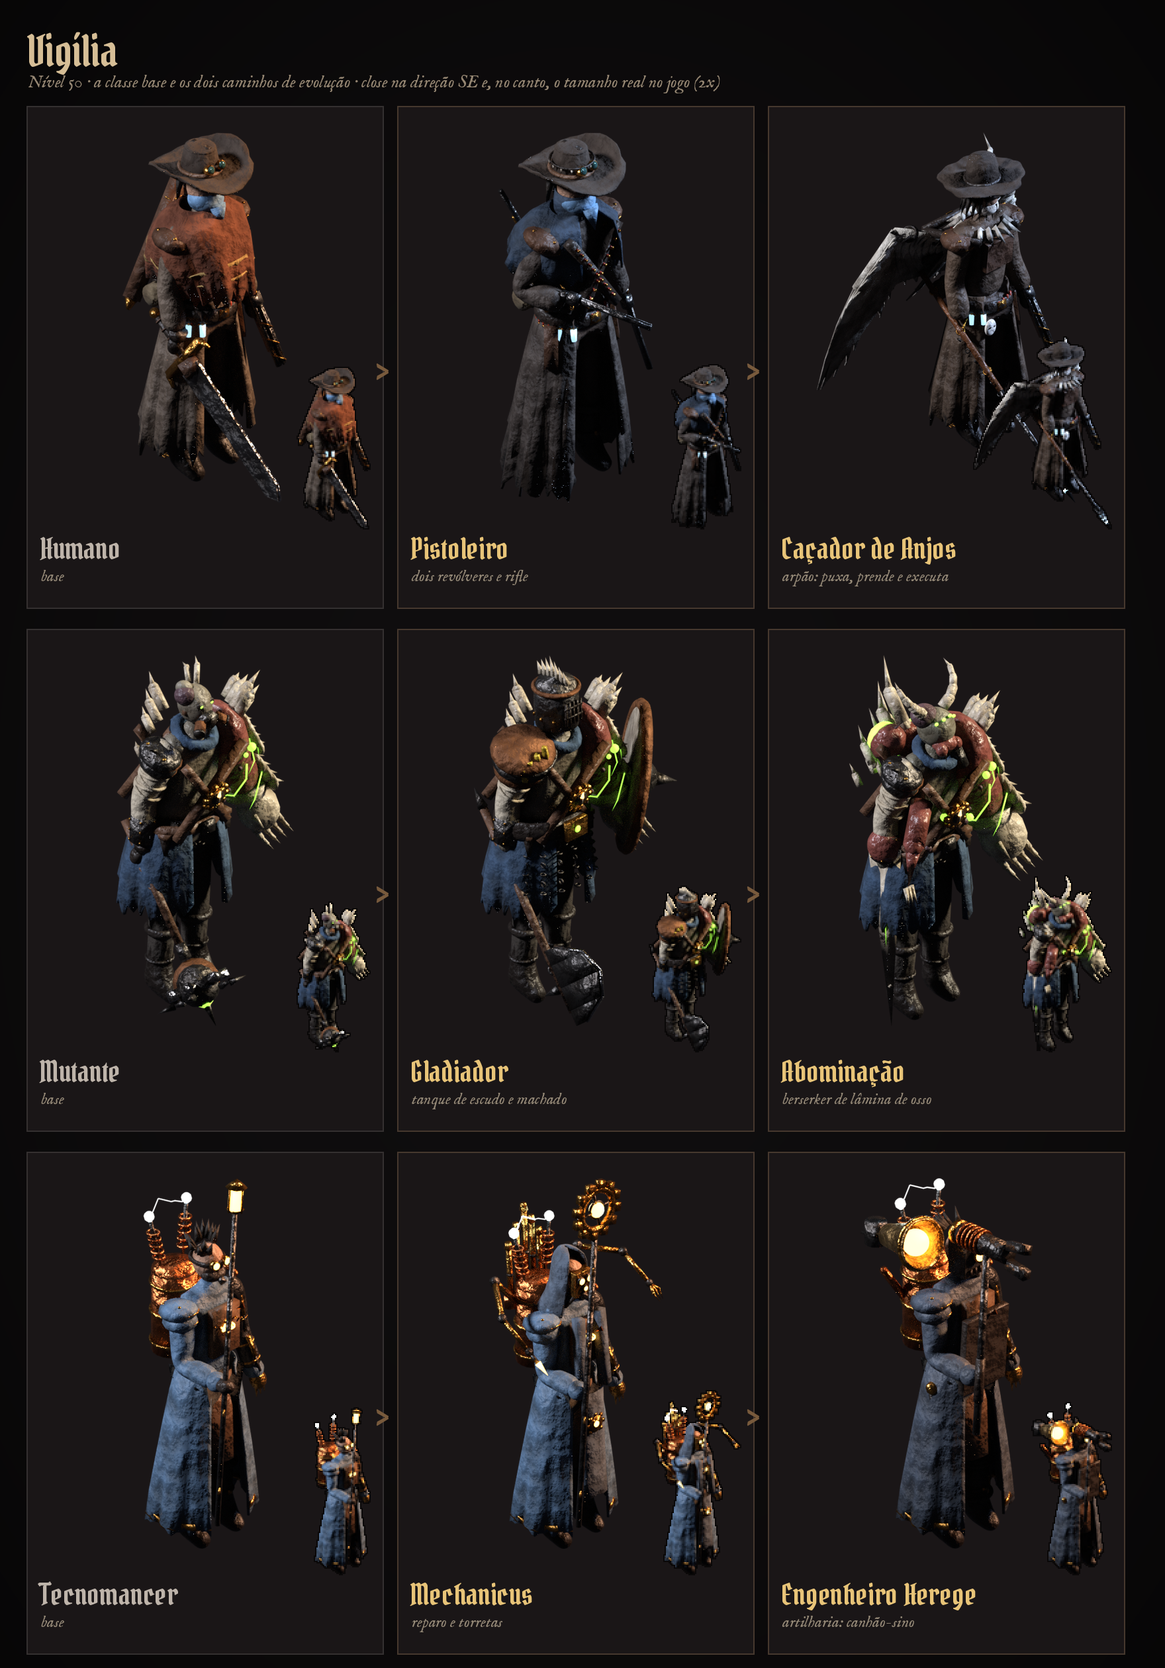
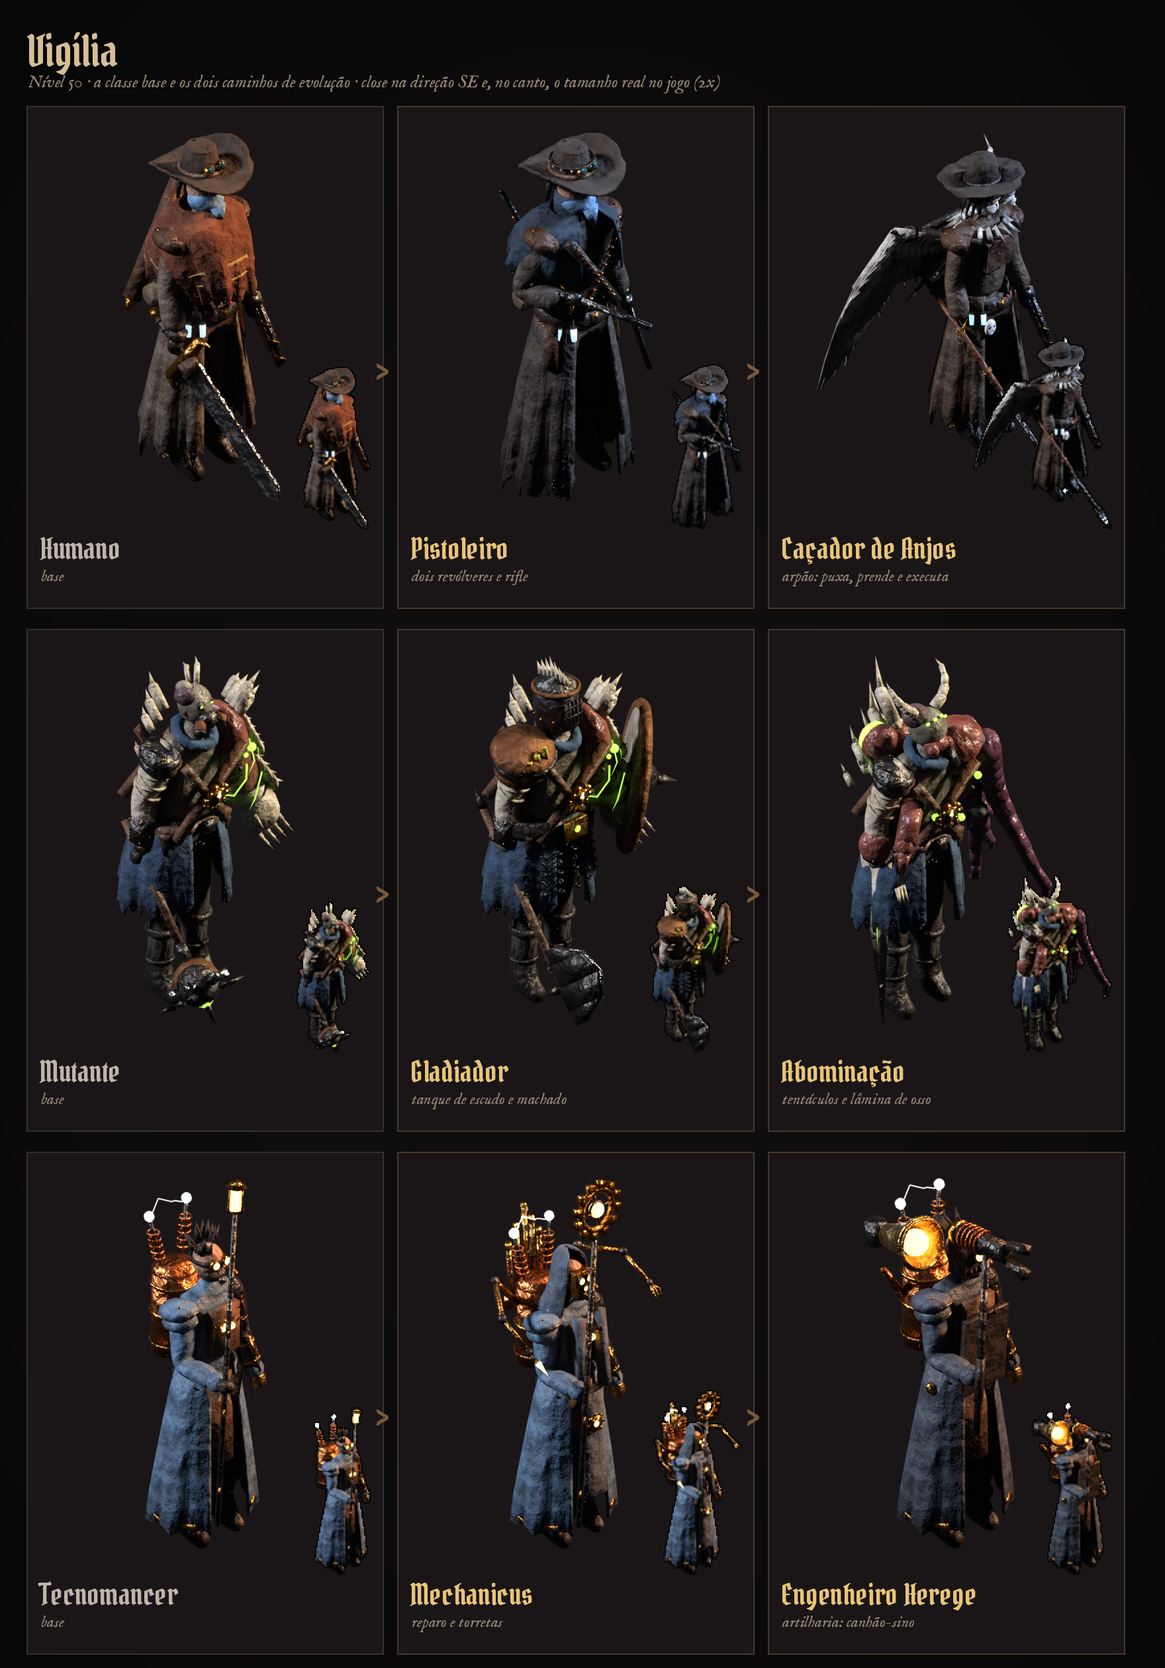
Evoluções: Ceifador de sombra, Abominação com tentáculos, Profeta com halo da podridão e asas de mariposa
Claude-Session: https://claude.ai/code/session_01Sknk5Bb29nZy4kpKu7zTkE

Changed region(s): [[0.7188, 0.4024, 0.9688, 0.619]]

diff --git a/tools/sprite-pipeline/personagens/evolucoes.py b/tools/sprite-pipeline/personagens/evolucoes.py
@@ -344,83 +344,113 @@ def lorde_das_trevas():
     info.update({"rim": (1, .3, .12), "base": "demonio"}); return arm, info
 
 # ====================================================================== DEMÔNIO → CEIFADOR
+def shadow_mat(name, rgb=(.006,.005,.009), alpha=.95, scale=5.0, cut=.42):
+    """Sombra etérea: quase preta, com bordas que se desfazem em fumaça (alfa por ruído)."""
+    if name in bpy.data.materials: return bpy.data.materials[name]
+    m = bpy.data.materials.new(name); m.use_nodes = True; nt = m.node_tree; b = nt.nodes["Principled BSDF"]
+    b.inputs["Base Color"].default_value = (*rgb, 1); b.inputs["Roughness"].default_value = 1.0
+    tc = nt.nodes.new("ShaderNodeTexCoord"); nz = nt.nodes.new("ShaderNodeTexNoise")
+    nz.inputs["Scale"].default_value = scale; nz.inputs["Detail"].default_value = 10; nz.inputs["Roughness"].default_value = .65
+    nt.links.new(tc.outputs["Object"], nz.inputs["Vector"])
+    rp = nt.nodes.new("ShaderNodeValToRGB")
+    rp.color_ramp.elements[0].position = cut; rp.color_ramp.elements[0].color = (0, 0, 0, 1)
+    rp.color_ramp.elements[1].position = cut + .14; rp.color_ramp.elements[1].color = (alpha, alpha, alpha, 1)
+    nt.links.new(nz.outputs["Fac"], rp.inputs[0]); nt.links.new(rp.outputs[0], b.inputs["Alpha"])
+    m.blend_method = 'HASHED' if hasattr(m, "blend_method") else None
+    return m
+
+def smoke_strip(name, m, pts, w0, w1, normal, seed=0, wave=.03):
+    """Tira de fumaça/sombra afinando ao longo de uma curva, com ondulação."""
+    rnd = random.Random(seed); bm = bmesh.new(); prev = None; n = len(pts)
+    for i, p in enumerate(pts):
+        t = i/(n-1); d = (pts[min(i+1, n-1)] - pts[max(i-1, 0)]).normalized(); side = d.cross(normal).normalized()
+        w = w0 + (w1 - w0)*t; c = p + side*wave*math.sin(t*7 + seed)
+        pair = (bm.verts.new(c + side*w*rnd.uniform(.8, 1.1)), bm.verts.new(c - side*w*rnd.uniform(.8, 1.1)))
+        if prev: bm.faces.new((prev[0], prev[1], pair[1], pair[0]))
+        prev = pair
+    o = obj_from_bm(name, bm, m); o.modifiers.new("s", 'SOLIDIFY').thickness = .004; _apply_mods(o); return o
+
 def ceifador():
-    """O que colhe a alma antes do Juízo: capuz e manto em farrapos, máscara de crânio, asas de ossos-lâmina
-    sem membrana e uma foice longa de ferro com o fio em brasa. Assassino: some, aparece atrás e corta."""
+    """O que colhe a alma antes do Juízo, feito de sombra: mortalha esfarrapada que se desfaz em fumaça na barra,
+    capuz fundo sem rosto (só dois olhos frios no escuro), asas etéreas de sombra em tiras e uma foice de ferro negro
+    com o fio em luz morta. Assassino: some na própria sombra, aparece atrás e corta."""
+    mat("brasa", (.55,.5,1), emit=(.5,.45,1), strength=7)          # o brilho da classe vira luz morta, fria
+    mat("carne_demoniaca", (.03,.025,.035), 0, .6, dirt=.6, grime=.5)
     arm, info = classes2.demonio()
-    drop("moicano_vermelho", "asa_couro")       # cabeça e asas antigas
-    drop_named("demonio_hand.R", "sobretudo_sem_manga", "demonio_upper_arm.L")
-    leather = mat("couro_negro", (.016,.013,.014)); flesh = mat("carne_demoniaca", (.16,.035,.028))
-    iron = mat("ferro_velho", (.1,.095,.09)); horn = mat("chifre", (.07,.055,.045)); ember = mat("brasa", (1,.4,.08))
-    shroud = mat("mortalha_negra", (.022,.02,.022), 0, .8, dirt=.55, grime=.6)
-    bone = mat("osso_ceifa", (.42,.38,.31), 0, .6, dirt=.5, grime=.6)
-    black = mat("ferro_negro", (.05,.045,.045), 1, .42, dirt=.6, grime=.3)
+    drop("moicano_vermelho", "asa_couro")
+    drop_named("demonio_hand.R", "sobretudo_sem_manga", "demonio_upper_arm.L", "demonio_chest", "demonio_forearm.R", "demonio_hips")
+    leather = mat("couro_negro", (.016,.013,.014)); light = mat("brasa", (.55,.5,1))
+    shroud = mat("mortalha_negra", (.02,.018,.024), 0, .9, dirt=.5, grime=.5)
+    rag = mat("trapo_cinza", (.06,.055,.06), 0, .95, dirt=.45, grime=.6)
+    black = mat("ferro_negro", (.05,.045,.05), 1, .42, dirt=.6, grime=.3)
+    shade = shadow_mat("sombra_eterea"); shade2 = shadow_mat("sombra_fina", alpha=.8, scale=8, cut=.48)
     parts = []
-    # manto em farrapos até o chão, aberto, com tiras soltas
-    m1 = skirt("manto_ceifa", shroud, [(1.5,.19,.13,0), (1.3,.23,.16,.01), (1.0,.25,.18,.02), (.7,.28,.2,.03), (.4,.3,.22,.04), (.1,.34,.25,.05)],
-               open_front=.55, jag=.14, seed=41, folds=11, famp=.09)
-    bind(m1, arm, ["chest","spine","hips","thigh.L","thigh.R","upper_arm.L","upper_arm.R"], power=3); parts.append(m1)
+    # mortalha em várias camadas rasgadas, a barra se desfaz em sombra
+    for nm, m_, rings, of, jag, sd_ in (
+        ("mortalha", shroud, [(1.52,.19,.13,0), (1.3,.24,.17,.01), (1.0,.27,.2,.02), (.7,.3,.22,.03), (.42,.32,.24,.04), (.2,.34,.26,.05)], .5, .16, 41),
+        ("trapos", rag, [(1.46,.2,.14,.005), (1.2,.255,.18,.015), (.95,.28,.21,.02), (.75,.3,.22,.03)], .7, .2, 7)):
+        o_ = skirt(nm, m_, rings, open_front=of, jag=jag, seed=sd_, folds=13, famp=.1)
+        bind(o_, arm, ["chest","spine","hips","thigh.L","thigh.R","upper_arm.L","upper_arm.R"], power=3); parts.append(o_)
     rnd = random.Random(4)
-    for k in range(7):
-        a = math.radians(110 + k*22); x, y = .3*math.cos(a), .22*math.sin(a) + .04
-        t = tabard(f"farrapo{k}", shroud, x, y, .55, .55 - rnd.uniform(.38, .55), .02, seed=k, back=True)
+    for k in range(14):   # farrapos soltos em volta e fumaça saindo da barra até o chão
+        a = math.radians(-70 + k*26); x, y = .31*math.sin(a), -.24*math.cos(a)*(-1 if k > 6 else 1)
+        x, y = .32*math.sin(math.radians(k*25.7)), .25*math.cos(math.radians(k*25.7))
+        t = tabard(f"farrapo{k}", rag if k % 3 else shroud, x, y, .62, .62 - rnd.uniform(.25, .45), .022, seed=k, back=y > 0)
         bind(t, arm, ["hips","thigh.L","thigh.R"], power=2); parts.append(t)
-    # correias cruzadas no peito e cinta com ossos pendurados
-    ch = []
-    for s in (1, -1): ch.append(along("primitive_cube_add", leather, (.16*s,-.15,1.45), (-.12*s,-.16,1.04), .022))
-    ch.append(plate(black, (0,-.17,1.27), (.035,.02,.035), (0,0,45)))
+        p0 = Vector((x*1.05, y*1.05, .28)); sm = smoke_strip(f"fumaca{k}", shade2, [p0 + Vector((x*.3*i/5, y*.3*i/5, -.055*i)) for i in range(6)], .05, .015, Vector((0,0,1)).cross(Vector((x, y, 0))).normalized(), seed=k)
+        bind(sm, arm, ["hips","thigh.L","thigh.R"], power=2); parts.append(sm)
+    # cinta de trapo com fivela de ferro negro e correias cruzadas
+    ch = [along("primitive_cube_add", leather, (.16*s,-.15,1.45), (-.12*s,-.16,1.04), .02) for s in (1, -1)]
+    ch.append(plate(black, (0,-.17,1.26), (.03,.018,.03), (0,0,45)))
     parts.append(rigid(ch, arm, "chest"))
-    hp = [prim("primitive_torus_add", leather, (0,0,.98), (1,.8,1.4), major_radius=.19, minor_radius=.018)]
-    for k in range(5):
-        x = -.15 + .075*k
-        hp.append(prim("primitive_uv_sphere_add", bone, (x, -.17 + abs(x)*.25, .9), (.022,.018,.03), segments=8, ring_count=6))
-    parts.append(rigid(hp, arm, "hips"))
-    # braçadeira de lâminas no antebraço esquerdo
-    o, ax, up, sd = bone_frame("forearm.L")
-    parts.append(rigid([along("primitive_cone_add", black, o + ax*.04, o + ax*.18, 1, radius1=.062, radius2=.052, vertices=10)] +
-                       [along("primitive_cone_add", black, o + ax*(.06 + .05*k) + Vector((0,.05,0)), o + ax*(.11 + .05*k) + Vector((0,.15,.03)), 1, radius1=.012, radius2=0, vertices=4) for k in range(3)], arm, "forearm.L"))
-    # capuz fundo com máscara de crânio cornudo e olhos de brasa
-    hd = [head_base(bone, (.072,.082,.1)),
-          cowl("capuz_ceifa", shroud, seed=41, sc=1.05),
-          prim("primitive_uv_sphere_add", bone, (0,-.07,1.61), (.05,.04,.035))]
+    parts.append(rigid([prim("primitive_torus_add", rag, (0,0,.98), (1,.8,1.6), major_radius=.19, minor_radius=.02)], arm, "hips"))
+    # braços envoltos em ataduras sujas
+    for n in "LR":
+        o, ax, up, sd = bone_frame(f"forearm.{n}"); w_ = []
+        for k in range(6):
+            r_ = prim("primitive_torus_add", rag, o + ax*(.03 + .03*k), (1,1,1), major_radius=.056, minor_radius=.008); r_.rotation_euler = ax.to_track_quat('Z','Y').to_euler(); r_.rotation_euler.x += .25*(k % 2); w_.append(r_)
+        w_.append(along("primitive_cube_add", rag, o + ax*.18, o + ax*.18 + Vector((0,.02,-.2)), .012))
+        parts.append(rigid(w_, arm, f"forearm.{n}"))
+    # cabeça: capuz fundo, por dentro só escuro; dois olhos frios e fumaça escorrendo deles
+    hd = [head_base(mat("vazio", (.0,.0,.0), 0, 1, dirt=1, grime=0), (.07,.08,.095)),
+          cowl("capuz_ceifa", shroud, seed=41, sc=1.08)]
+    hd.append(skirt("capuz_trapo", rag, [(1.5,.19,.16,.02), (1.4,.24,.2,.03), (1.32,.27,.21,.03)], open_front=.6, jag=.06, seed=9, folds=8, famp=.08))
     for s in (1, -1):
-        hd.append(prim("primitive_uv_sphere_add", leather, (.03*s,-.088,1.69), (.022,.012,.016)))
-        hd.append(prim("primitive_uv_sphere_add", ember, (.03*s,-.096,1.688), (.008,.005,.006)))
-        hd += curve_tube(horn, bezier((.06*s,-.05,1.79), (.1*s,-.08,1.86), (.12*s,-.06,1.95), (.1*s,.0,2.02), 5), .02, .003, 6)
-    for k in range(5): hd.append(prim("primitive_cube_add", bone, (-.024 + .012*k,-.104,1.6), (.004,.004,.012)))
+        hd.append(prim("primitive_uv_sphere_add", light, (.028*s,-.085,1.69), (.011,.005,.006)))
+        hd.append(smoke_strip(f"lagrima_sombra{s}", shade2, [Vector((.028*s,-.088,1.68 - .03*i)) + Vector((.004*i*s, -.004*i, 0)) for i in range(5)], .008, .002, Vector((0,1,0)), seed=3 + s))
     parts.append(rigid(hd, arm, "head"))
-    # asas de ossos-lâmina: dedos longos de osso com lâminas de ferro negro e farrapos presos
+    # asas etéreas de sombra: muitas tiras longas de fumaça abrindo em leque, sem osso nenhum, presas às asas do esqueleto
     for side in (1, -1):
-        n = "L" if side > 0 else "R"
-        root = P(f"wing.{n}"); el = Vector((.32*side, .32, 1.86)); wr = Vector((.6*side, .48, 1.8))
-        tips = [Vector((1.08*side, .56, 1.7)), Vector((1.1*side, .62, 1.3)), Vector((.9*side, .6, .95)), Vector((.62*side, .5, .74))]
-        wb = [along("primitive_cylinder_add", bone, root, el, .028, vertices=8), along("primitive_cylinder_add", bone, el, wr, .024, vertices=8),
-              prim("primitive_uv_sphere_add", bone, el, (.034,.034,.034)), prim("primitive_uv_sphere_add", bone, wr, (.03,.03,.03))]
-        for i, t in enumerate(tips):
-            mid = wr.lerp(t, .4) + Vector((0, .03, .03))
-            wb += curve_tube(bone, [wr, mid, mid.lerp(t, .5)], .022, .012, 6)
-            bl_ = along("primitive_cone_add", black, mid, t, 1, radius1=.05, radius2=0, vertices=4)
-            bl_.scale = (.05, .012, (t - mid).length/2); wb.append(bl_)
-        wb.append(along("primitive_cone_add", black, el, el + Vector((.04*side, -.03, .16)), 1, radius1=.024, radius2=0, vertices=5))
+        n = "L" if side > 0 else "R"; root = P(f"wing.{n}"); wb = []
+        rnd = random.Random(10 + side)
+        for i in range(13):
+            t = i/12; ang = math.radians(78 - 112*t)
+            dirv = Vector((side*math.cos(ang), .35 + .15*t, math.sin(ang))).normalized()
+            ln = .95 + .35*math.sin(math.pi*t) + rnd.uniform(-.1, .1)
+            p0 = root + Vector((.03*side, .02, .02))
+            mid = p0 + dirv*ln*.5 + Vector((0, .08, .06*(1 - t)))
+            tip = p0 + dirv*ln + Vector((0, .12, -.12*t))
+            pts = [bezier(p0, p0.lerp(mid, .6), mid, tip, 8)][0]
+            nrm = Vector((0, 1, 0)).cross(dirv).cross(dirv).normalized()
+            wb.append(smoke_strip(f"asa_sombra{n}{i}", shade if i % 3 else shade2, pts, .055 + .03*math.sin(math.pi*t), .004, Vector((-.2*side, 1, .1)).normalized(), seed=i + 5*side, wave=.04))
         parts.append(rigid(wb, arm, f"wing.{n}"))
-    # foice longa: cabo de ferro com anéis, lâmina curva larga com o fio em brasa
+    # foice longa de ferro negro com o fio em luz morta, cabo enrolado em trapos
     fr, bd, g = weapon_frame(); o, ax, up, sd = fr; perp = bd.cross(sd).normalized()
     w = [along("primitive_cylinder_add", black, g - bd*.55, g + bd*.95, .017, vertices=8),
          along("primitive_cone_add", black, g - bd*.55, g - bd*.68, 1, radius1=.02, radius2=0, vertices=5)]
-    for k in range(4):
-        r_ = prim("primitive_torus_add", iron, g + bd*(-.35 + .32*k), (1,1,1), major_radius=.021, minor_radius=.006)
-        r_.rotation_euler = bd.to_track_quat('Z','Y').to_euler(); w.append(r_)
-    top = g + bd*.95; w.append(prim("primitive_uv_sphere_add", bone, top, (.045,.04,.05)))
-    pts = [top + (-perp*math.sin(a)*.62 + bd*(math.cos(a) - 1)*.35 + bd*.02) for a in [k*.14 for k in range(14)]]
-    w.append(blade_mesh("foice", black, pts, [.035 + .06*math.sin(math.pi*k/13) if k < 13 else 0 for k in range(14)], sd, .012))
-    wid = [.035 + .06*math.sin(math.pi*k/13) if k < 13 else 0 for k in range(14)]
+    for k in range(5): w.append(along("primitive_cylinder_add", rag, g + bd*(-.4 + .25*k), g + bd*(-.34 + .25*k), .022, vertices=8))
+    top = g + bd*.95; w.append(plate(black, top, (.03,.03,.04)))
+    pts = [top + (-perp*math.sin(a)*.66 + bd*(math.cos(a) - 1)*.36 + bd*.02) for a in [k*.14 for k in range(14)]]
+    wid = [.035 + .065*math.sin(math.pi*k/13) if k < 13 else 0 for k in range(14)]
+    w.append(blade_mesh("foice", black, pts, wid, sd, .012))
     edge = []
-    for i, p_ in enumerate(pts):  # fio de brasa na borda de fora da lâmina
+    for i, p_ in enumerate(pts):
         d_ = (pts[min(i+1, 13)] - pts[max(i-1, 0)]).normalized(); edge.append(p_ - d_.cross(sd).normalized()*wid[i])
-    w += [along("primitive_cube_add", ember, edge[k], edge[k+1], .005) for k in range(1, 13)]
+    w += [along("primitive_cube_add", light, edge[k], edge[k+1], .004) for k in range(1, 13)]
+    w.append(smoke_strip("foice_fumaca", shade2, [top + Vector((0, .0, -.04*i)) + sd*.01*i for i in range(6)], .03, .005, perp, seed=2))
     parts.append(rigid(w, arm, "hand.R"))
     grow(arm, 1.03)
-    info.update({"rim": (1, .22, .14), "base": "demonio"}); return arm, info
+    info.update({"rim": (.38, .3, .62), "base": "demonio"}); return arm, info
 
 # ====================================================================== CULTISTA → ARQUIMAGO
 def arquimago():
@@ -579,6 +609,66 @@ def profeta_do_amargo():
     fx = rigid([prim("primitive_uv_sphere_add", burst, c, (.12,.12,.12)),
                 along("primitive_cone_add", burst, c, c + bd*.55, 1, radius1=.12, radius2=0, vertices=8)], arm, "hand.R")
     fx.name = "rajada"; info["flash"] = fx
+    # asas de mariposa podres nas costas (dois pares), membrana manchada, rasgada e furada, nervuras escuras
+    wing_m = mat("asa_mariposa_podre", (.2,.17,.11), 0, .9, dirt=.35, grime=.4)
+    wing_d = mat("asa_mariposa_mancha", (.08,.07,.05), 0, .9, dirt=.5, grime=.3)
+    vein = mat("nervura_podre", (.05,.045,.03), 0, .7, dirt=.6, grime=.2)
+    def moth_wing(side, ax_dir, length, spread, width_k, seed):
+        rnd = random.Random(seed); root = Vector((.07*side, .2, 1.38))
+        e1 = Vector(ax_dir).normalized(); e2 = e1.cross(Vector((0, -1, 0))).normalized()
+        if e2.z < 0: e2 = -e2
+        NU, NV = 22, 9; grid = []; bm = bmesh.new()
+        for i in range(NU + 1):
+            u = i/NU; th = (u - .5)*spread
+            R = length*(math.sin(math.pi*u)**.55)*(1 + .06*math.sin(u*31 + seed))*(1 - .25*abs(u - .62))
+            row = []
+            for j in range(NV + 1):
+                v = j/NV; r = R*v
+                p = root + e1*(r*math.cos(th)) + e2*(r*math.sin(th)*width_k) + Vector((0, .1*v*v + .03*math.sin(u*7)*v, 0))
+                row.append(bm.verts.new(p))
+            grid.append(row)
+        spots = []
+        for i in range(NU):
+            for j in range(NV):
+                edge = j >= NV - 1; hole = rnd.random() < (.35 if edge else (.06 if j >= NV - 3 else .0))
+                if hole: continue
+                f = bm.faces.new((grid[i][j], grid[i+1][j], grid[i+1][j+1], grid[i][j+1]))
+                f.material_index = 1 if ((i - NU*.6)**2/9 + (j - NV*.62)**2 < 1.6 or rnd.random() < .08) else 0
+        G = [[v.co.copy() for v in row] for row in grid]
+        o = obj_from_bm(f"asa_mariposa{side}{seed}", bm, wing_m); o.data.materials.append(wing_d)
+        o.modifiers.new("s", 'SOLIDIFY').thickness = .006; _apply_mods(o)
+        out = [o]
+        for i in range(2, NU, 3):   # nervuras
+            pts = [G[i][j] + Vector((0, -.006, 0)) for j in range(0, NV + 1, 3)]
+            out += curve_tube(vein, pts, .006, .002, 4)
+        ci = int(NU*.6); cj = int(NV*.62); c = G[ci][cj] + Vector((0, -.01, 0))   # olho falso verde no meio da asa
+        out.append(prim("primitive_torus_add", amargo, c, (1,1,1), (90,0,0), major_radius=.04*length, minor_radius=.006))
+        return out
+    wg = []
+    for side in (1, -1):
+        wg += moth_wing(side, (side*.75, .25, .9), .95, 1.25, 1.0, 3 + side)        # par de cima, grande
+        wg += moth_wing(side, (side*.85, .3, -.45), .6, 1.0, .9, 7 + side)          # par de baixo, menor
+    parts.append(rigid(wg, arm, "chest"))
+    # halo da podridão: aro de ferro enferrujado atrás da cabeça com três chaminés soltando fumaça verde e um enxame de moscas
+    fume = shadow_mat("fumaca_amarga", rgb=(.04,.06,.025), alpha=.85, scale=7, cut=.45)
+    hc = Vector((0, .16, 1.86)); hl = [prim("primitive_torus_add", rust, hc, (1,1,1), (78,0,0), major_radius=.24, minor_radius=.02, major_segments=40, minor_segments=8)]
+    Rm = Matrix.Rotation(math.radians(78), 3, 'X')
+    for k in range(12):   # pregos e argolas no aro
+        a = 2*math.pi*k/12; p = hc + Rm @ Vector((.24*math.cos(a), .24*math.sin(a), 0)); d = (p - hc).normalized()
+        hl.append(along("primitive_cone_add", rust, p, p + d*.05, 1, radius1=.008, radius2=0, vertices=4))
+    for a in (math.radians(55), math.radians(90), math.radians(125)):
+        p = hc + Rm @ Vector((.24*math.cos(a), .24*math.sin(a), 0))
+        hl.append(along("primitive_cylinder_add", lead, p, p + Vector((0, 0, .1)), .02, vertices=8))
+        hl.append(along("primitive_cylinder_add", rust, p + Vector((0, 0, .1)), p + Vector((0, 0, .115)), .027, vertices=8))
+        hl.append(prim("primitive_uv_sphere_add", amargo, p + Vector((0, 0, .11)), (.012,.012,.006)))
+        hl.append(smoke_strip(f"fumo{a:.1f}", fume, [p + Vector((.02*math.sin(i*1.3), .015*i, .12 + .07*i)) for i in range(7)], .02, .05, Vector((0, 1, 0)), seed=int(a*10), wave=.02))
+    flies = mat("mosca", (.01,.01,.008), 0, .4, dirt=1, grime=0)
+    rnd = random.Random(66)
+    for k in range(36):
+        a = rnd.uniform(0, 2*math.pi); r = rnd.uniform(.2, .45)
+        p = hc + Vector((r*math.cos(a), rnd.uniform(-.15, .15), r*math.sin(a)*.8))
+        hl.append(prim("primitive_uv_sphere_add", flies, p, (.008,.006,.006), segments=6, ring_count=4))
+    parts.append(rigid(hl, arm, "head"))
     grow(arm, 1.04)
     info.update({"rim": (.3, .5, .2), "base": "cultista"}); return arm, info
 
@@ -869,9 +959,38 @@ def abominacao():
         fa += curve_tube(acid, pts, .005, .002, 5)
     parts.append(rigid(fa, arm, "forearm.R"))
     for o_ in [o_ for o_ in bpy.data.objects if o_.name.startswith("mutante_hand.R")]: bpy.data.objects.remove(o_, do_unlink=True)
-    # braço mutado esquerdo ainda maior
-    for o_ in [o_ for o_ in bpy.data.objects if o_.name.startswith(("mutante_forearm.L", "mutante_hand.L", "braco.L"))]:
-        xform(o_, scl(1.15), P("forearm.L"))
+    # no lugar do braço mutado: um feixe de tentáculos de carne saindo do ombro, com ventosas e pontas de ácido
+    drop_named("braco.L", "mutante_upper_arm.L", "mutante_forearm.L", "mutante_hand.L")
+    sh = P("upper_arm.L"); el = P("forearm.L"); wr = P("hand.L"); dv = (wr - sh).normalized()
+    stump = [prim("primitive_uv_sphere_add", flesh, sh + Vector((.04,0,0)), (.16,.15,.15), segments=16, ring_count=10),
+             prim("primitive_uv_sphere_add", bruise, sh + Vector((.08,-.06,.06)), (.07,.07,.06))]
+    for k in range(4):
+        a_ = 2*math.pi*k/4 + .3
+        stump.append(prim("primitive_uv_sphere_add", acid, sh + Vector((.1 + .05*math.cos(a_), .1*math.sin(a_), .02 + .06*math.cos(a_))), (.022,.022,.022), segments=8, ring_count=5))
+    parts.append(rigid(stump, arm, "upper_arm.L"))
+    tent = mat("tentaculo", (.13,.05,.08), 0, .35, dirt=.6, grime=.3)
+    rnd = random.Random(33)
+    specs = [(.0, .0, 1.4, .085), (.06, -.07, 1.1, .068), (-.05, .08, 1.25, .072), (.04, .09, .9, .055), (-.03, -.09, 1.05, .058)]
+    for i, (oy, oz, ln, r0) in enumerate(specs):
+        base_ = sh + Vector((.1, oy, oz)); a_ = 2*math.pi*i/5 + .4; side = Vector((.3*math.cos(a_), math.cos(a_), math.sin(a_)))
+        pts = []
+        for j in range(13):
+            t = j/12
+            c = base_ + dv*ln*t + side.normalized()*(.3*t + .07*math.sin(t*math.pi*2.2 + i)) + Vector((0, 0, -.12*t*t))
+            if t > .75: c += Vector((.05*math.sin(i + t*9), .05*math.cos(i + t*9), .04*(t - .75)*4))   # ponta enrolando
+            pts.append(c)
+        tb = []
+        for j in range(12):
+            r = r0*(1 - j/12)**.8 + .006
+            tb.append(along("primitive_cylinder_add", tent, pts[j], pts[j+1], r, vertices=12))
+            tb.append(prim("primitive_uv_sphere_add", tent, pts[j+1], (r,)*3, segments=12, ring_count=6))
+            if 1 < j < 11:   # ventosas na parte de baixo
+                dn = (pts[j+1] - pts[j]).cross(Vector((0, 1, 0))).normalized()
+                if dn.z > 0: dn = -dn
+                tb.append(prim("primitive_uv_sphere_add", bone, pts[j] + dn*r*.9, (r*.35, r*.35, r*.2), segments=8, ring_count=4))
+        tb.append(along("primitive_cone_add", acid, pts[-1], pts[-1] + (pts[-1] - pts[-2]).normalized()*.06, 1, radius1=.012, radius2=0, vertices=6))
+        for j in (3, 7): tb += curve_tube(acid, [pts[j], pts[j].lerp(pts[j+2], .5) + Vector((0, 0, .01)), pts[j+2]], .004, .002, 4)
+        parts.append(rigid(tb, arm, "upper_arm.L"))
     grow(arm, 1.16)
     info.update({"base": "mutante"}); return arm, info
 
